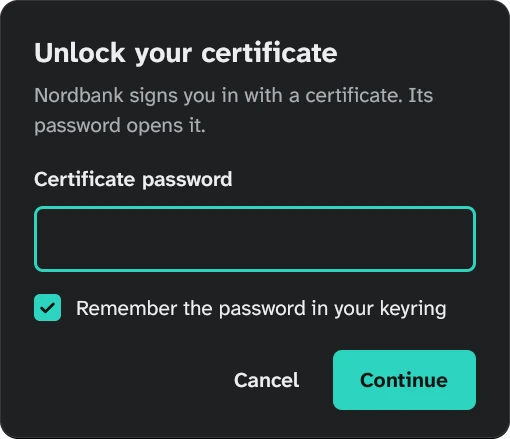
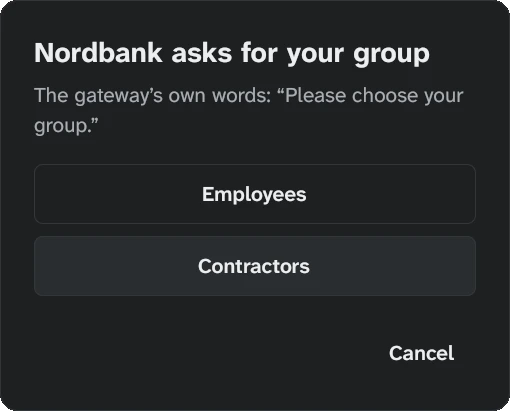
README: the new bird, today's windows, the no-tray note
Every screenshot taken again from 0.10.0 in demo mode (the new bird, the
audit's windows, the sign-in that asks in words) and the banner redrawn
with them. The status says Crake can be used from the keyboard and tells
a desktop without tray icons what would bring the bird back.

diff --git a/README.md b/README.md
@@ -86,7 +86,7 @@ Beta: openconnect speaks it, but Crake hasn't been used against a real gateway o
 | Tunnels | New tunnel | Sign-in |
 |:---:|:---:|:---:|
 | <img src="docs/screenshots/tunnels-light.webp" width="300"> | <img src="docs/screenshots/newtunnel-light.webp" width="260"> | <img src="docs/screenshots/signin-light.webp" width="260"> |
-| In the order traffic tries them, drag to change it. A full tunnel waits underneath. | Type the gateway: Crake asks it what it speaks and which groups it offers. | Your certificate's password from the keyring next time; browser sign-in for SSO. |
+| In the order traffic tries them, drag to change it. A full tunnel waits underneath. | Type the gateway: Crake asks it what it speaks and which groups it offers. | The gateway's questions in plain words. Browser sign-in for SSO; a certificate's password from the keyring. |
 
 | Traffic | An OpenVPN 3 profile | Is it safe? |
 |:---:|:---:|:---:|
@@ -324,7 +324,8 @@ scripts/vm-test.sh [release]                  # the same in a throwaway VM: AppA
 ```
 
 - **Needs:** openconnect, nftables, iproute2, systemd-resolved, and a tray: GNOME with the
-  AppIndicator extension, or KDE. OpenVPN 3 for its profiles.
+  AppIndicator extension, or KDE (without one, Crake says what would bring the bird back). OpenVPN 3
+  for its profiles.
 - **Config:** `packaging/craked.toml.example`.
 - **The design:** `design/DESIGN.md` and the approved screens in `design/screens/`, open in a browser.
 
@@ -356,7 +357,10 @@ forgotten so the app's next try goes through.
 - ✅ Gateways that only admit Cisco's client, said openly
 - ✅ OpenVPN 3 profiles, including sessions started elsewhere, edited in place
 - ✅ Traffic: a live view of what goes direct and what goes through each tunnel
-- ✅ Tray, panel, log, settings, new tunnel, sign-in, tunnel detail; light and dark
+- ✅ Tray, panel, log, settings, new tunnel, sign-in, tunnel detail; light and dark; usable from
+  the keyboard
+- ✅ A desktop that shows no tray icons: said so, with the extension switched on in one click
+  where it can be
 - ✅ Networks that block UDP: noticed, run over TCP on the same session, and remembered for next
   time — tested on a real network that blocks it
 - 🟡 GlobalProtect, Ivanti/Pulse, Juniper, Fortinet, F5 and Array: spoken through openconnect,
@@ -372,7 +376,7 @@ forgotten so the app's next try goes through.
 - ✅ NixOS: a flake with the package and a module (`services.crake.enable`), tested in NixOS VMs
 - ✅ IPv6 alongside IPv4: learned, routed, kept from going around a full tunnel
 - 🟡 Windows 11: an installer with openconnect included, tested in a VM against a real gateway
-  (not code-signed yet)
+  (not code-signed yet: applied for)
 - 🟡 macOS on Apple Silicon and Intel: a signed and notarized installer, tested on GitHub's Macs
   and first tried on a real Mac against a real gateway
 
